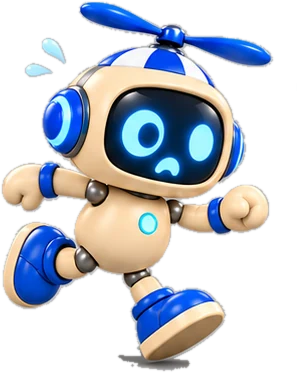
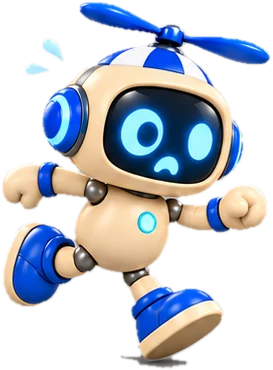
IAmiguinho M3: recortes limpos, perfil em duas colunas e botões que quebram linha
Claude-Session: https://claude.ai/code/session_01EzS9DxgjdBzP7RojM8YLwB

diff --git a/src/styles/iamiguinho.css b/src/styles/iamiguinho.css
@@ -2,8 +2,8 @@
    O azul aceso (--iam) é só dele. Fresta: cantos retos, traço inclinado, nada de cartão arredondado. */
 
 /* Mascote de interface: pose + balão com a fala */
-.iam-vazio { display: grid; grid-template-columns: 116px minmax(0, 1fr); align-items: end; gap: 14px; margin-top: 18px; max-width: 520px; text-align: left; }
-.iam-vazio__pose { width: 116px; height: auto; display: block; filter: drop-shadow(0 10px 18px rgba(0, 0, 0, 0.35)); }
+.iam-vazio { display: grid; grid-template-columns: 132px minmax(0, 1fr); align-items: end; gap: 14px; margin-top: 18px; max-width: 520px; text-align: left; }
+.iam-vazio__pose { width: 132px; height: auto; display: block; filter: drop-shadow(0 10px 18px rgba(0, 0, 0, 0.35)); }
 .iam-vazio--centro { margin-inline: auto; }
 .iam-fala { position: relative; margin: 0 0 22px; padding: 12px 16px; background: var(--surface-2, var(--field)); border-left: 3px solid var(--iam); font-size: 14px; line-height: 1.5; color: var(--ink-2, var(--ink)); }
 .iam-fala::before { content: ''; position: absolute; left: -11px; bottom: 14px; width: 10px; height: 14px; background: var(--iam); clip-path: polygon(100% 0, 100% 100%, 0 100%); }
@@ -48,10 +48,11 @@ html[data-motion='reduzidas'] .iam-cameo, html[data-motion='reduzidas'] .iam-cam
 .iam-perfil__nums dt { font: 500 11px var(--font-mono); letter-spacing: 0.1em; text-transform: uppercase; color: var(--muted); }
 .iam-perfil__nums dd { margin: 0; font: 700 18px var(--font-ui); }
 .iam-perfil__cols { display: grid; grid-template-columns: repeat(2, minmax(0, 1fr)); gap: 32px; }
-.iam-perfil__cols section, .iam-perfil > section { display: flex; flex-direction: column; gap: 14px; }
+.iam-perfil__cols section, .iam-perfil > section:not(.iam-perfil__hero) { display: flex; flex-direction: column; gap: 14px; }
 .iam-perfil__lista { list-style: none; margin: 0; padding: 0; display: flex; flex-direction: column; }
 .iam-perfil__lista li { display: flex; flex-direction: column; gap: 2px; padding: 12px 0; border-top: 1px solid var(--line); }
 .iam-perfil__momentos { list-style: none; margin: 0; padding: 0; display: grid; grid-template-columns: repeat(4, minmax(0, 1fr)); gap: 16px; }
 .iam-perfil__momentos li { display: flex; flex-direction: column; gap: 8px; align-items: center; text-align: center; background: var(--surface); padding: 16px 12px; }
 .iam-perfil__momentos img { width: 100%; max-width: 150px; height: auto; }
 @media (max-width: 860px) { .iam-perfil__hero, .iam-perfil__cols { grid-template-columns: 1fr; } .iam-perfil__foto { max-width: 360px; } .iam-perfil__momentos { grid-template-columns: repeat(2, minmax(0, 1fr)); } }
+.tl-empty .hero__actions { flex-wrap: wrap; }
